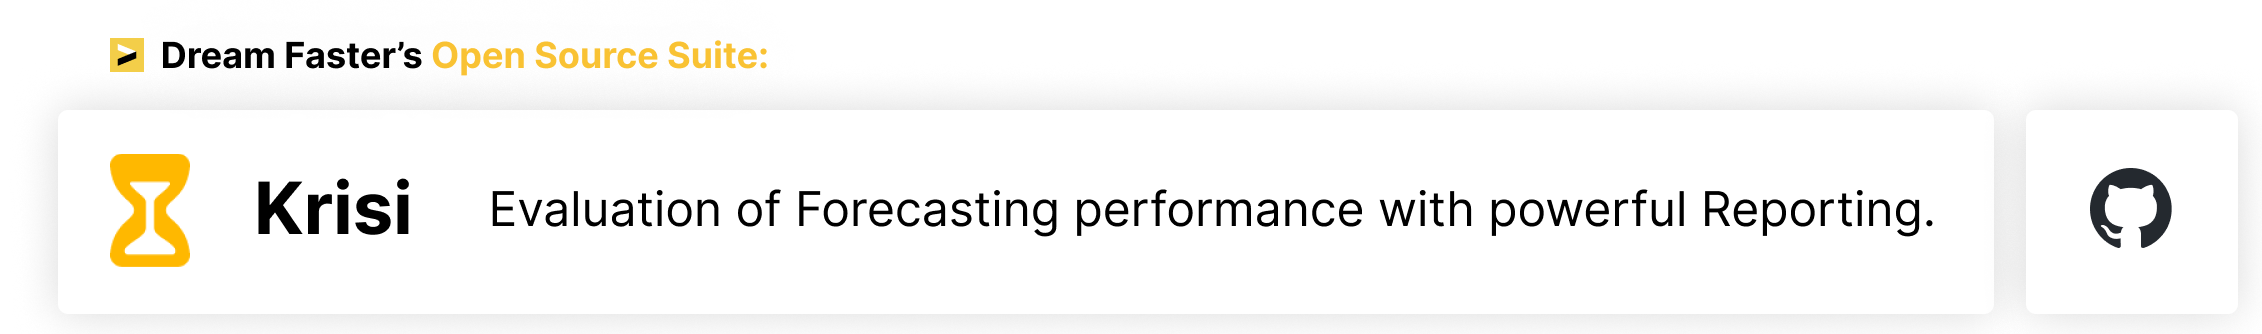
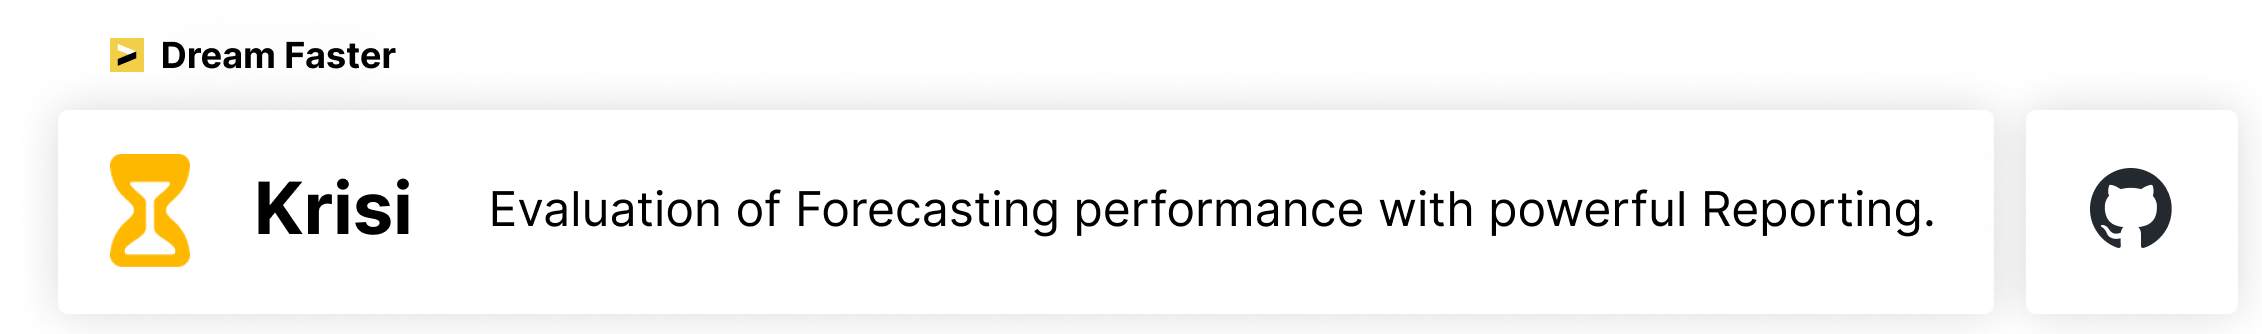
feature(Docs): updated "why fold?" section, and images

Changed region(s): [[0.1547, 0.1198, 0.3404, 0.2096]]

diff --git a/README.md b/README.md
@@ -1,5 +1,4 @@
 <!-- # Fold -->
-<!-- Formatted with Prettier -->
 
 <p align="center">
   <a href="https://dream-faster.github.io/fold/"><img alt="Docs" src="https://img.shields.io/github/actions/workflow/status/dream-faster/fold/docs.yaml?logo=readthedocs"></a>
@@ -16,7 +15,7 @@
   </a>
 <h3 align="center"><b>FOLD</b><br> <i>(/fold/)</i></h3>
   <p align="center">
-    <b>[Now|Fore]casting with Continuous Evaluation & Composite Pipelines</b><br> Build, train and deploy pipeines with your favourite modeling library as Fold is from the ground-up extensible and lightweight.
+    <b>A Time Series Continuous Evaluation (Cross-validation) library that lets you build, deploy and update composite models easily. An order of magnitude speed-up, combined with flexibility and rigour.</b><br>
     <br/>
     <a href="https://dream-faster.github.io/fold/"><strong>Explore the docs »</strong></a>
   </p>
@@ -27,9 +26,12 @@
 
 ![Fold's main features](docs/images/main_features.png)
 
-- Composite Pipelines with Continuous Validation at speed - [what does it mean for me?](#benefits-for-your-Forecasting)
-- Distributed computing - [why is this importan?](#benefits-for-your-Forecasting)
-- Update deployed models - [why is this importan?](#benefits-for-your-Forecasting)
+- Composite Pipelines with Continuous Validation (Cross Validation) - [What does that mean?](#Fold-is-different)
+- Distributed computing - [Why is this important?](#Fold-is-different)
+- Update deployed models - [why is this importan?](#Fold-is-different)
+
+Continuous validation prevents you from accidentally using information that wouldn't otherwise be available at the time of training/evaluation (lookahead bias).
+
 
 <br/>
 
@@ -67,13 +69,37 @@ transformations_over_time = train(transformations, X, y, splitter)
 pred = backtest(transformations_over_time, X, y, splitter)
 ```
 
+
+## Fold is different
+
+- Continuous Validation (Time Series cross-validation) at lightning speed.<br/>
+  <span style="color:orange;">**→ fold allows to simulate and evaluate your models like they would have performed, in reality/when deployed, with clever use of paralellization and design.**</span>
+
+- Create composite models: ensembles, hybrids, stacking pipelines, easily.<br/>
+  <span style="color:orange;">**→ Underutilized, but [the easiest, fastest way to increase performance of your Time Series models.](https://linkinghub.elsevier.com/retrieve/pii/S0169207022001480)**
+  </span>
+
+- Built with Distributed Computing in mind.<br/>
+  <span style="color:orange;">**→ Deploy your pipelines to a cluster with `ray`, and use `modin` to handle huge, out-of-memory datasets.**</span>
+
+- Bridging the gap between Online and Mini-Batch learning.<br/>
+  <span style="color:orange;">**→ Mix and match `xgboost` with ARIMA, in a single pipeline, update your models, preprocessing steps on every timestamp, if that's desired.**</span>
+
+- Update your deployed models, easily, as new data flows in.<br/>
+  <span style="color:orange;">**→ Real world is not static. Let your models adapt, without the need to re-train from scratch.**</span>
+
+
+
+
+</li>
+
 <!-- GETTING STARTED -->
 
 ## Examples and Walkthroughs
 
-| Link                                                                            | Dataset Type |
-| ------------------------------------------------------------------------------- | ------------ |
-| [⚡ Energy Demand Walkthrough](github.com/dream-faster/fold/examples/energy)   | Energy       |
+| Link                                                                           | Dataset Type |
+| ------------------------------------------------------------------------------ | ------------ |
+| [⚡ Energy Demand Walkthrough](github.com/dream-faster/fold/examples/energy)    | Energy       |
 | [🚋 Basic end-to-end walkthrough](github.com/dream-faster/fold/examples/energy) | Energy       |
 
 <br/>
@@ -88,13 +114,13 @@ pred = backtest(transformations_over_time, X, y, splitter)
 - Use any Deep Learning Time Series models (wrappers provided in [fold-models](https://github.com/dream-faster/fold-models)).
 - Super easy syntax!
 - Probabilistic foreacasts (currently, for Classification, soon for Regression as well).
-- Hyperparemeter optimization / Model selection.
+- Hyperparemeter optimization / Model selection. (coming in early April!)
 
-## Dream Faster Forecasting Suite
+## Our open source Time Series toolkit
 
-[![Dream Faster's Suite - Krisi](docs/images/dream_faster_suite_krisi.png)](https://github.com/dream-faster/krisi)
-[![Dream Faster's Suite - Fold](docs/images/dream_faster_suite_fold.png)](https://github.com/dream-faster/fold)
-[![Dream Faster's Suite - Fold/Models](docs/images/dream_faster_suite_fold_models.png)](https://github.com/dream-faster/fold-models)
+[![Krisi](docs/images/dream_faster_suite_krisi.png)](https://github.com/dream-faster/krisi)
+[![Fold](docs/images/dream_faster_suite_fold.png)](https://github.com/dream-faster/fold)
+[![Fold/Models](docs/images/dream_faster_suite_fold_models.png)](https://github.com/dream-faster/fold-models)
 
 ## Contribution
 
@@ -104,41 +130,6 @@ The project uses `isort` and `black` for formatting.
 
 Submit an issue or reach out to us on info at dream-faster.ai for any inquiries.
 
-## Benefits for your Forecasting
-
-## Fold solves the following problems:
-
-- Accidentally using information that wouldn't otherwise be available at the time of training/evaluation (lookahead bias). <p style="color:orange;">**→ fold allows you to use any model, transformation or function in a pipeline, while making sure it'll never have access to "future data".**<p>
-
-- Time series Cross-validation is painful OR really slow with the existing libraries. People end up using a single train-test split when evaluating time series models, which is sub-optimal from many perspective. [Why use cross validation?](continuous-validation.md)<p style="color:orange;">
-  **→ fold allows to simulate and evaluate your models like they would have performed, in reality/when deployed. Choose between sliding or expanding window.**</p>
-
-<details>
-  <summary>👇 Expand for further differentiators </summary>
-<br>
-
-- Model selection, Feature selection and Hyperparameter optimization is done on the whole time series, introducing major lookahead bias, creating unrealistic expectations of performance.<p style="color:orange;">
-  **→ Allowing methodologically “correct” way to do Model selection, Feature selection and Hyperparameter Optimization (we call this the pre-validation step, done on the first window's train split).**</p>
-
-- Too many dependencies and an either you use-all-or-none-of-it approach<p style="color:orange;">
-  **→ Fold has very few hard dependencies (only pandas, numpy, tqdm and scikit-learn), and has a fraction of the number of lines of code as other major Time series libraries.**</p>
-
-- Choosing between a time series library that only support certain kind of models.<p style="color:orange;">
-  **→ Don't need to choose between `xgboost`, `sktime`, `darts` or `statsforecast` models. We will or already support them all, either natively or through [`fold-models`](https://github.com/dream-faster/fold-models)**</p>
-
-- Most time series ML libraries have little or no support distributed computing.<p style="color:orange;">
-  **→ Fold was built with distributed computing in mind. Your pipeline is automatically parallelized wherever it can be (for some extent, the rest is coming really soon)**</p>
-
-- Using a single model, instead of ensembling, stacking or creating hybrid models.<p style="color:orange;">
-  **→ Fold is _really_ flexible in what kind of pipelines you create and has native support for ensembling, stacking, hybrid models and meta-labeling. Why? [works really well for time series](https://linkinghub.elsevier.com/retrieve/pii/S0169207022001480).**</p>
-
-- Hard to deploy models, that can't be updated.<p style="color:orange;">
-  **→ Don't stop at training models, with `fold`, you can deploy with a couple of lines of code, and also update your models as new data comes in. Don't assume your models will not get out-of-date.**</p>
-
-- We can't compare, ensemble or use online and mini-batch learning models together.<p style="color:orange;">
-**→ `fold` supports both types of models natively.**</p>
-</details>
-</li>
 
 ## Limitations
 
